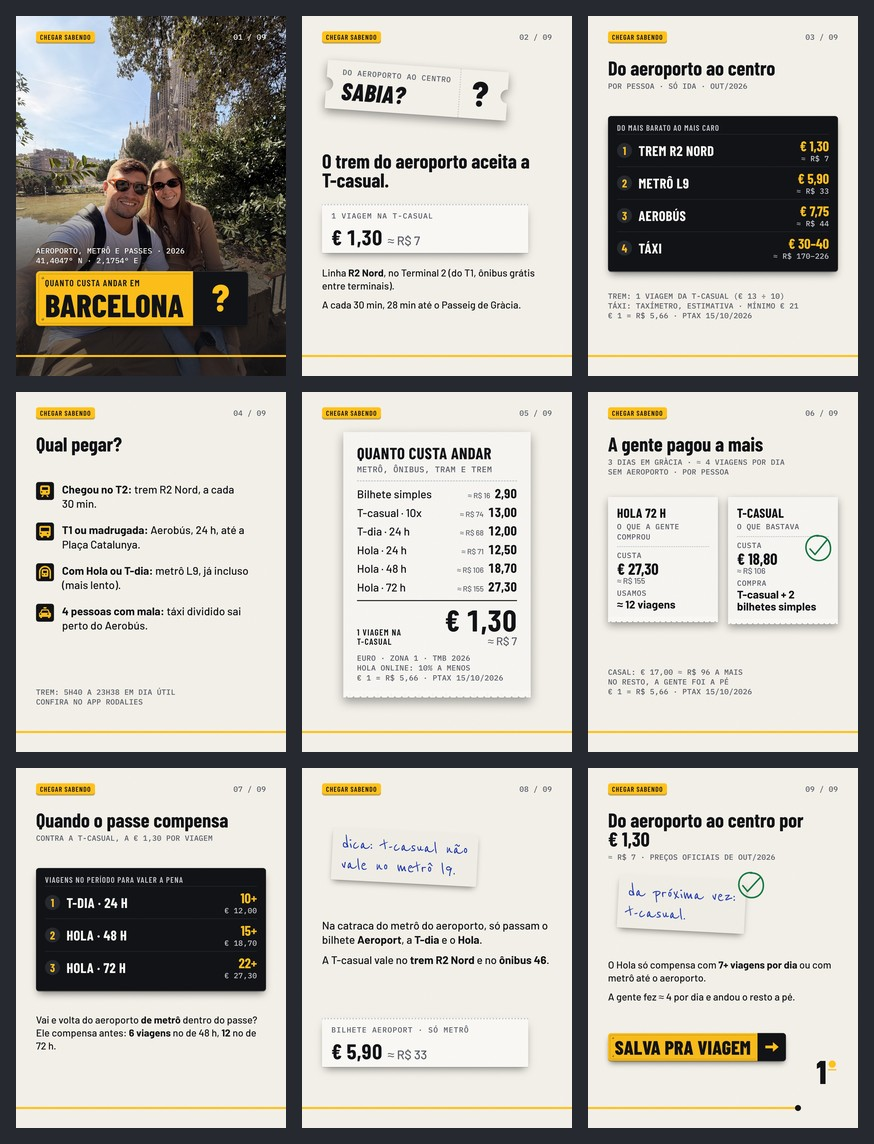
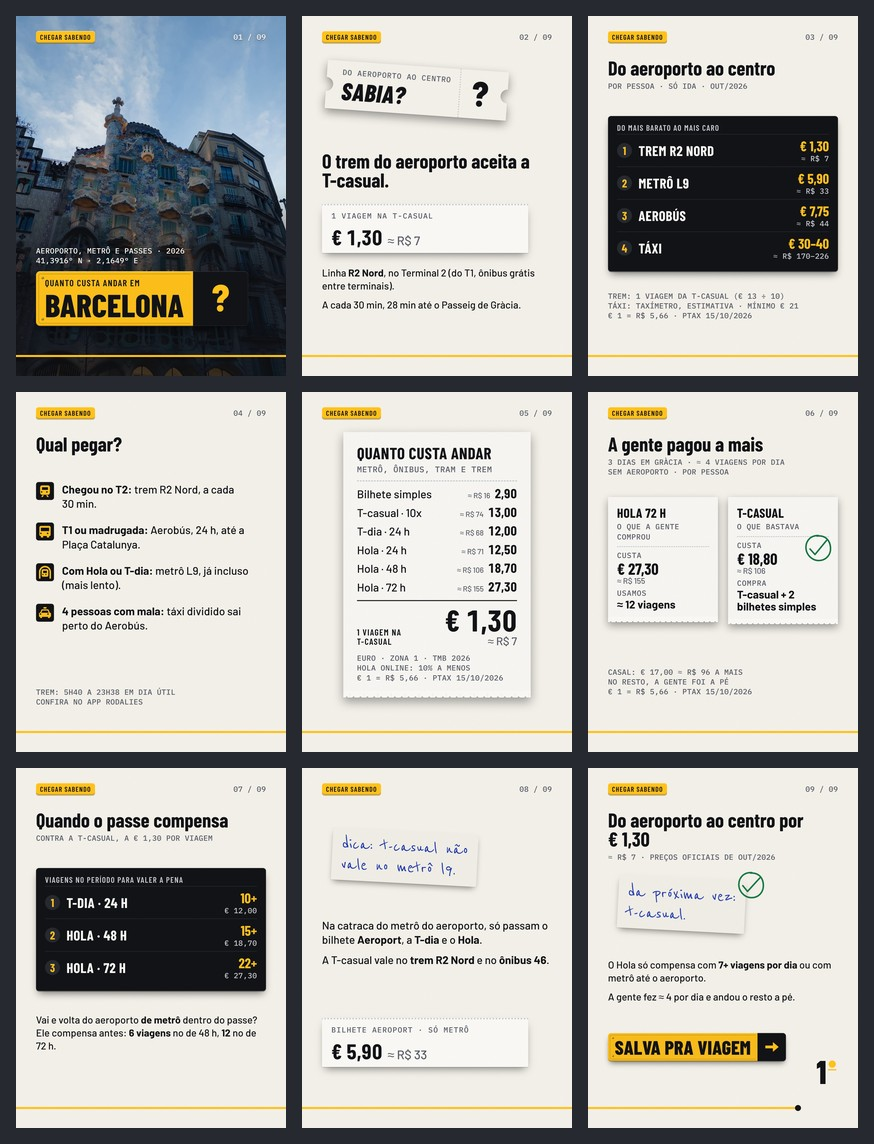
Barcelona REV1: capa com a Casa Batlló
Escolha do Diego (16/10/2026): foto da Casa Batlló enviada no chat,
cortada em 3:4 pelo topo (sem a multidão da base), com as coordenadas
da Casa Batlló. A capa com o Diego na Sagrada Família (IMG_1198) fica
registrada no QA como alternativa.

Claude-Session: https://claude.ai/code/session_012achA4AM54wkpq67oDfHoJ

Changed region(s): [[0.0, 0.0, 0.3398, 0.3365]]

diff --git a/carrosseis/transporte-barcelona/rev1/slides.html b/carrosseis/transporte-barcelona/rev1/slides.html
@@ -29,7 +29,7 @@ body{margin:0;background:#26292F}
 .body p{margin:0 0 24px}
 .micro{font:500 30px/1.3 var(--pd-fm);letter-spacing:.02em;text-transform:uppercase}
 .nota{position:absolute;left:80px;width:920px;margin:0;color:var(--pd-n5)}
-/* Capa: foto em sangria (IMG_1198) */
+/* Capa: foto em sangria (Casa Batlló) */
 .photo{position:absolute;inset:0;overflow:hidden;background:var(--pd-n7)}
 .photo img{width:100%;height:100%;object-fit:cover;display:block}
 /* Quadro (DS 2.6, Ranking) em largura de carrossel */
@@ -76,13 +76,13 @@ body{margin:0;background:#26292F}
 
 <!-- 01 · CAPA -->
 <section class="slide" id="s01">
-  <!-- capa: IMG_1198 (Drive, Barcelona/Youtube), 11/03/2026 11h41, Sagrada Família; ../fonte/capa.jpg fora do git -->
+  <!-- capa: Casa Batlló (foto enviada pelo Diego no chat em 16/10/2026), corte 3:4 pelo topo; ../fonte/capa.jpg fora do git -->
   <div class="photo"><img src="../fonte/capa.jpg" alt="" style="object-position:50% 50%"></div>
   <div class="pd-scrim"></div>
   <div class="serie">Chegar sabendo</div>
   <div class="count on-photo">01 / 09</div>
   <div style="position:absolute;left:80px;bottom:200px;display:flex;flex-direction:column;gap:24px;z-index:25">
-    <div class="micro on-photo">aeroporto, metrô e passes · 2026<br>41,4047° N · 2,1754° E</div>
+    <div class="micro on-photo">aeroporto, metrô e passes · 2026<br>41,3916° N · 2,1649° E</div>
     <div class="pd-plate" style="position:relative;left:0;top:0">
       <div class="pd-plate__face"><i class="pd-rivet t"></i><i class="pd-rivet b"></i><div class="pd-plate__label">Quanto custa andar em</div><div class="pd-plate__dest">Barcelona</div></div>
       <div class="pd-plate__mod"><svg viewBox="0 0 100 100" aria-hidden="true"><text x="50" y="94" text-anchor="middle" font-family="Barlow Condensed,Arial Narrow,sans-serif" font-weight="800" font-size="128" fill="currentColor">?</text></svg></div>

diff --git a/carrosseis/transporte-barcelona/rev1/QA_REV1.md b/carrosseis/transporte-barcelona/rev1/QA_REV1.md
@@ -10,7 +10,7 @@
 
 De dentro desta pasta: `node scripts/render.mjs` gera `out/01.jpg` a `out/09.jpg` a partir de `slides.html`. Variáveis opcionais: `PLAYWRIGHT_MODULE` (neste ambiente, `/opt/node22/lib/node_modules/playwright`) e `CHROMIUM`. O script também confere a largura da placa (≤ 872 px), a margem de 80, a Rota e as palavras por slide. `out/contato.jpg` é a folha de contato a 25% (teste de miniatura).
 
-A foto da capa vai em `../fonte/capa.jpg` (fora do git): IMG_1198 redimensionada para 1080 × 1440. Para refazer: baixar a IMG_1198.HEIC do Drive (`Barcelona/Youtube`, ID `1DJLn7FpJsQJRbCnhiYq-xnbXjxl8PO7N`), converter com `pillow-heif` e redimensionar sem corte (a foto já é 3:4).
+A foto da capa vai em `../fonte/capa.jpg` (fora do git): a foto da Casa Batlló enviada pelo Diego (`../fonte/casa_batllo_chat.jpg`), cortada em 3:4 pelo topo e redimensionada para 1080 × 1440.
 
 `slides.html` usa o `pd-bundle.css` do DS e as fontes em `fonts/` (as mesmas do carrossel de Roma: Barlow, Barlow Condensed, IBM Plex Mono e Reenie Beanie, OFL 1.1).
 
@@ -40,11 +40,13 @@ Enviabilidade 2 (dá para dizer para quem mandar: quem vai a Barcelona) · Ganch
 
 ## Fotos
 
-| Slide | Foto | Data e hora (EXIF) |
+| Slide | Foto | Data e hora |
 |---|---|---|
-| 01 | IMG_1198 (Drive, `Barcelona/Youtube`): Diego e Marina em frente à Sagrada Família, selfie | 11/03/2026 11:41 (+01:00); GPS 41,4047° N · 2,1754° E, as coordenadas da capa |
+| 01 | Casa Batlló ao entardecer, fachada inteira (enviada pelo Diego no chat, 16/10/2026) | sem EXIF (a imagem do chat chega sem metadados) |
 
-**Escolha:** no Drive de Barcelona só há duas fotos (o resto são vídeos): a IMG_1198 e a thumbnail do vlog, que é a mesma foto com arte por cima. Não há foto da Casa Batlló, só vídeos brutos sem catálogo (Barcelona não tem pasta de análise nem acervo). A IMG_1198 cumpre o DS 5.3: o Diego em primeiro plano, um marco reconhecível (a Sagrada Família), luz de dia e o formato 3:4 nativo, sem corte. Os rostos ficam entre y ≈ 600 e 780, acima da placa (y 1021 a 1240). É também a foto da thumbnail do vlog no YouTube, o que liga o post ao CTA da bio. A Marina aparece, o que é o padrão (CLAUDE.md, 2). Para usar a Casa Batlló, dá para tirar um quadro de um dos vídeos, se o Diego disser qual é o arquivo.
+**Escolha do Diego (16/10/2026):** a Casa Batlló. Corte 3:4 pelo topo (1717 × 2289 de 1717 × 2576): mantém o céu (onde ficam a etiqueta e o contador), o telhado de dragão e as varandas, e tira a multidão da base (rostos de desconhecidos). A placa cobre as janelas do primeiro andar. Coordenadas da capa: as da Casa Batlló na Wikipédia (41,39158° N · 2,16492° E), arredondadas para 4 casas.
+
+**Desvio:** o DS (5.3) pede o Diego em primeiro plano na capa; esta não tem pessoa. A alternativa com o Diego e a Marina na Sagrada Família (IMG_1198, Drive `Barcelona/Youtube`, 11/03/2026 11:41) foi a REV anterior desta capa e fica registrada como opção para teste. A foto do chat tem 1717 px de largura: basta para 1080, mas o original do celular daria mais nitidez.
 
 ## Dados e fontes (conferidos em 16/10/2026)
 
@@ -92,7 +94,7 @@ Enviabilidade 2 (dá para dizer para quem mandar: quem vai a Barcelona) · Ganch
 - [x] Grão 5% em tudo; fibra 4% no papel.
 - [x] Teste de miniatura: placa da capa e valores legíveis a 25% (`out/contato.jpg`).
 - [x] Seta, `?` e ✓ desenhados em SVG, nunca digitados (1.2).
-- [x] Capa com foto em sangria e o Diego em primeiro plano (IMG_1198).
+- [x] Capa com foto em sangria (Casa Batlló, escolha do Diego). Sem o Diego em primeiro plano: desvio registrado em Fotos.
 
 ## Desvios e decisões tomadas (precisam de aprovação do Diego)
 

diff --git a/carrosseis/transporte-barcelona/rev1/LEGENDA.md b/carrosseis/transporte-barcelona/rev1/LEGENDA.md
@@ -43,7 +43,7 @@ Primeira linha reforça o gancho da capa (referência, 3.4). Palavras-chave na l
 
 | Slide | Texto alternativo |
 |---|---|
-| 01 | Diego e Marina sorrindo de óculos escuros em frente à Sagrada Família, com a placa amarela "Quanto custa andar em Barcelona?" |
+| 01 | Fachada da Casa Batlló, de Gaudí, ao entardecer, com a placa amarela "Quanto custa andar em Barcelona?" |
 | 02 | Ticket "Sabia?": o trem do aeroporto aceita a T-casual, € 1,30 por viagem |
 | 03 | Painel com as 4 opções do aeroporto ao centro: trem € 1,30, metrô € 5,90, Aerobús € 7,75 e táxi € 30 a € 40 |
 | 04 | Qual pegar: trem no T2, Aerobús no T1 ou de madrugada, metrô com passe, táxi dividido em 4 pessoas |
